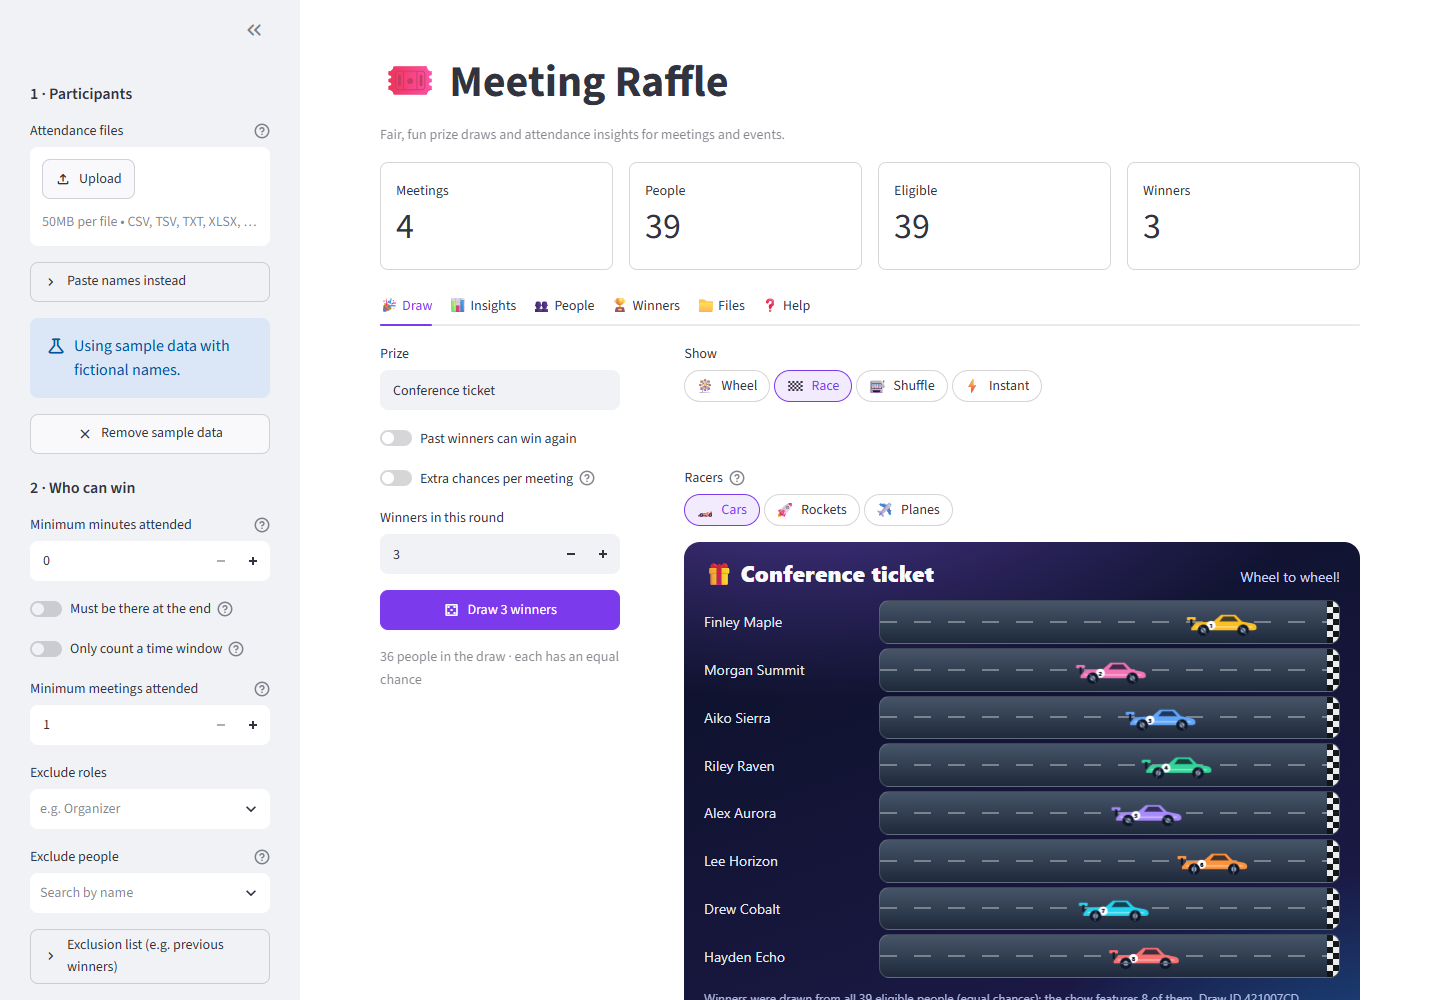
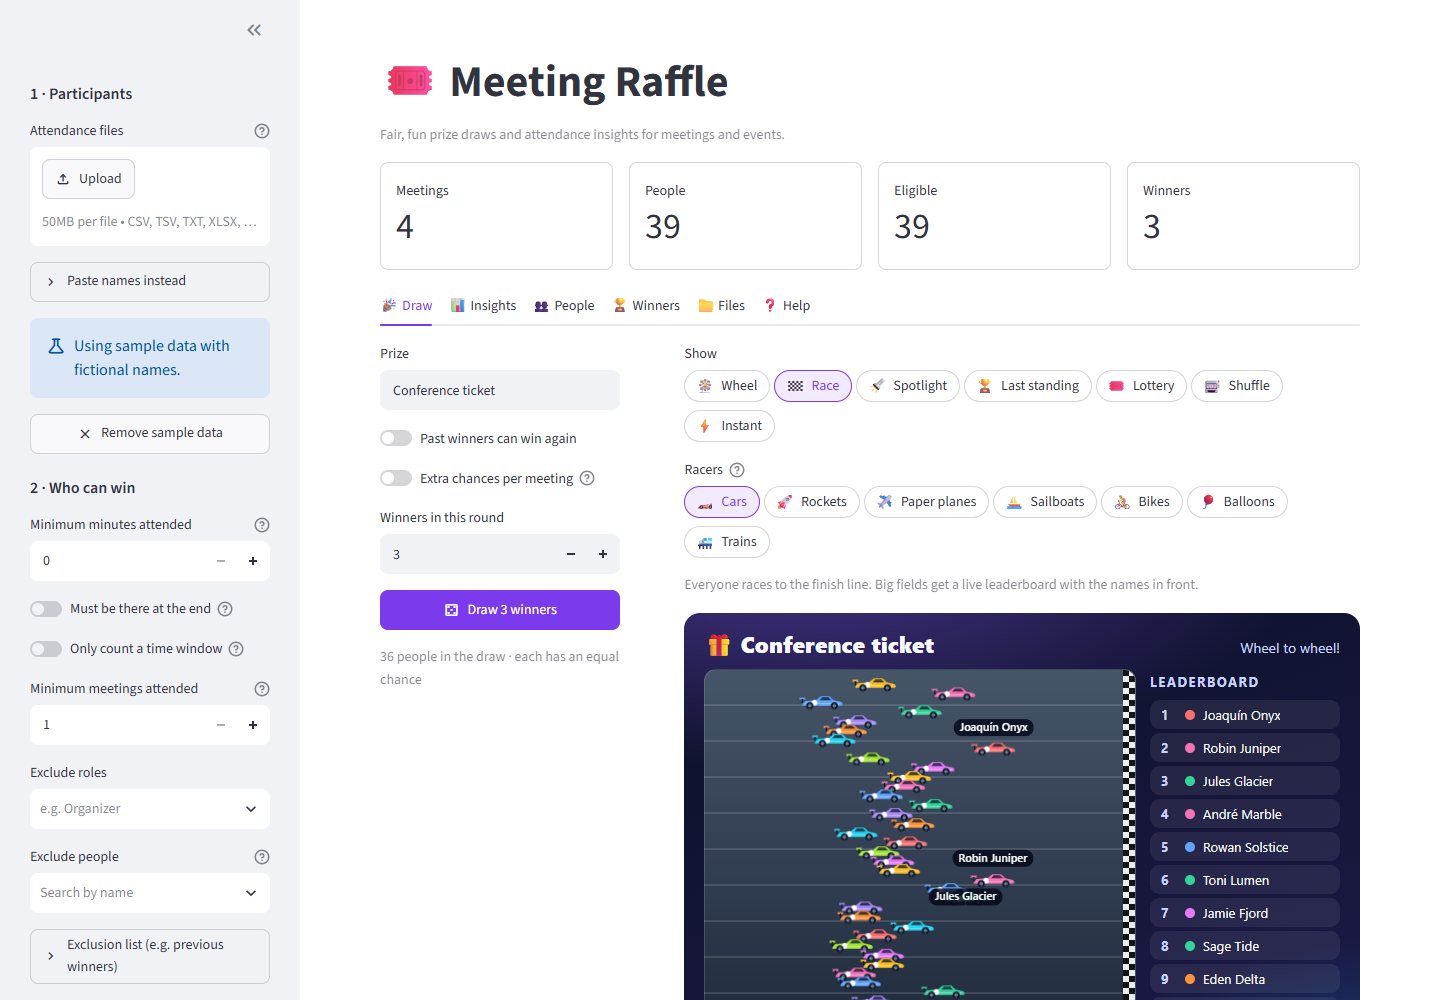
docs: document the shows and refresh screenshots

Changed region(s): [[0.4688, 0.465, 0.9688, 1.0], [0.5938, 0.372, 0.875, 0.403], [0.5, 0.403, 0.5312, 0.434]]

diff --git a/README.md b/README.md
@@ -2,9 +2,9 @@
 
 Fair, fun and auditable prize draws, plus attendance insights, for meetings and events. Upload the
 attendance reports of your Microsoft Teams meetings (any language or version), Zoom/Google Meet/Webex
-exports, spreadsheets or just paste a list of names. Set a few rules, reveal the winners with a spinning
-wheel, a race or a name shuffle, and measure how your event series is doing: audience, retention,
-loyalty, engagement and prizes.
+exports, spreadsheets or just paste a list of names. Set a few rules, reveal the winners with a show made
+for large audiences (wheel, race, spotlight, last one standing, lottery or name shuffle), and measure how
+your event series is doing: audience, retention, loyalty, engagement and prizes.
 
 **Demo here:** https://meeting-raffle.streamlit.app/
 
@@ -20,8 +20,9 @@ loyalty, engagement and prizes.
 - **Clear eligibility rules.** Minimum minutes, staying until the end, a time window, a minimum number
   of meetings, and exclusions by role, by person or by a list (such as past winners). Every person shows
   why they are or aren't eligible.
-- **A show for the audience.** 🎡 Wheel, 🏁 race (race cars, rockets or paper planes), 🎰 name
-  shuffle, or ⚡ instant reveal, with confetti.
+- **A show for the whole audience.** 🎡 Wheel, 🏁 race (cars, rockets, paper planes, sailboats, bikes,
+  balloons or trains), 🔦 spotlight, 🏆 last one standing, 🎟 lottery, 🎰 name shuffle or ⚡ instant
+  reveal. Everyone in the draw appears in the show, up to 2,000 people on screen.
 - **Fair and auditable.** Winners are picked with a cryptographically secure seed before any animation
   starts. Each round's seed and eligible pool are exported so anyone can reproduce the result.
 - **Insights across events.** Audience per event, new vs. returning people, retention over time, minutes
@@ -32,6 +33,12 @@ loyalty, engagement and prizes.
   emails stay hidden on screen unless you turn them on.
 
 ## Screenshots
+
+| Race with a live leaderboard | Spotlight |
+| --- | --- |
+| ![Race with every participant and a live leaderboard](docs/screenshots/show-race.png) | ![Spotlight searching a grid with every participant](docs/screenshots/show-spotlight.png) |
+| **Last one standing** | **Lottery** |
+| ![Last one standing, eliminating people until the winner remains](docs/screenshots/show-last-standing.png) | ![Lottery reels revealing the winning ticket](docs/screenshots/show-lottery.png) |
 
 | Wheel | Winners |
 | --- | --- |
@@ -77,8 +84,8 @@ own files.
 1. **Load participants** in the sidebar: upload one or more files, or paste names (one per line).
 2. **Decide who can win** with the rules below. The *People* tab shows every person, their minutes and
    the reason when they are not eligible.
-3. **Draw**: type the prize, choose how many winners and the show, then press **Draw**. Repeat for each
-   prize. Past winners are left out of the next rounds unless you allow repeats.
+3. **Draw**: type the prize, choose how many winners and the [show](#shows), then press **Draw**. Repeat
+   for each prize. Past winners are left out of the next rounds unless you allow repeats.
 4. **Wrap up** in the *Winners* tab: mark no-shows (they leave the draw so you can pick a replacement),
    undo a round, and download the results as CSV or Excel.
 5. **Measure** in the *Insights* tab: compare events, see who keeps coming back and download the report.
@@ -124,6 +131,26 @@ typos, but never merges different emails.
 
 **Classic Teams lists** don't record when the meeting ended. People still connected are counted until
 the last recorded activity, or until the end of the time window when one is set.
+
+## Shows
+
+Pick how the winners are revealed. The winners are already decided when the show starts; every show just
+plays back the same result, so the choice never changes anyone's chances.
+
+| Show | What the audience sees | Best for |
+| --- | --- | --- |
+| 🎡 Wheel | Everyone gets a slice; the name under the pointer is shown as the wheel spins | up to a few hundred people |
+| 🏁 Race | Up to 12 people race in labelled lanes; bigger fields race together with a live leaderboard and name tags on the leaders. Racers: cars, rockets, paper planes, sailboats, bikes, balloons or trains | any size |
+| 🔦 Spotlight | Everyone is a tile; a spotlight searches the room and stops on the winner | large audiences |
+| 🏆 Last standing | Everyone starts on screen; waves knock people out until only the winners remain, names growing as the field shrinks | large audiences |
+| 🎟 Lottery | Everyone holds a ticket number (alphabetical order); reels reveal the winning number digit by digit, narrowing down the candidates | any size |
+| 🎰 Shuffle | Names flash on a big display until one stops | small groups |
+| ⚡ Instant | The winners appear right away | many winners at once |
+
+**Large audiences.** Everyone in the draw appears on screen up to 2,000 people (the lottery has no limit).
+Above that, the show uses a random sample that always includes the winners and says so on screen. Shows
+render on a canvas and were checked at 60 frames per second with 2,000 participants. Rounds with many
+winners switch to an instant reveal (for example, more than 5 winners on the wheel).
 
 ## Insights and reports
 
